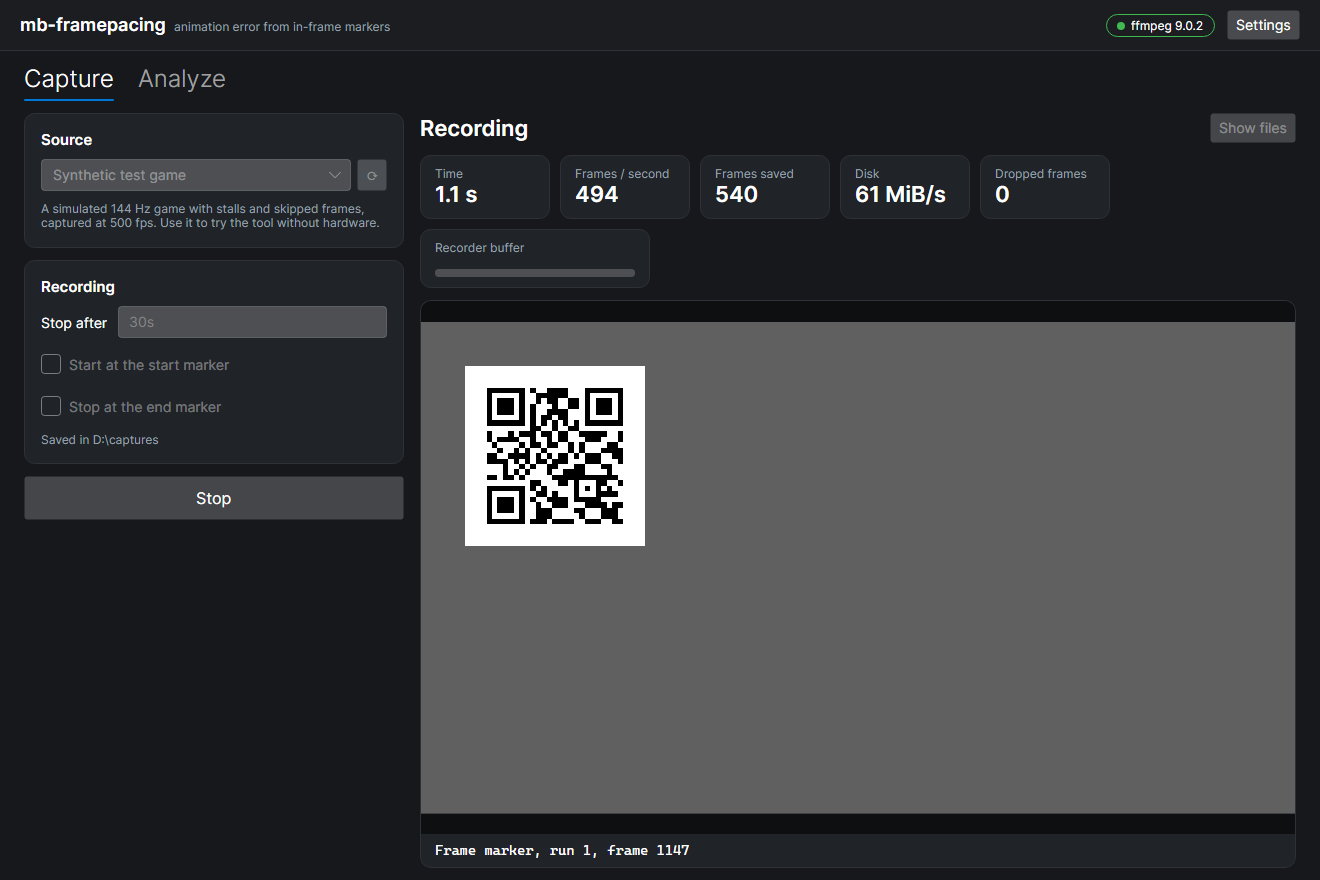
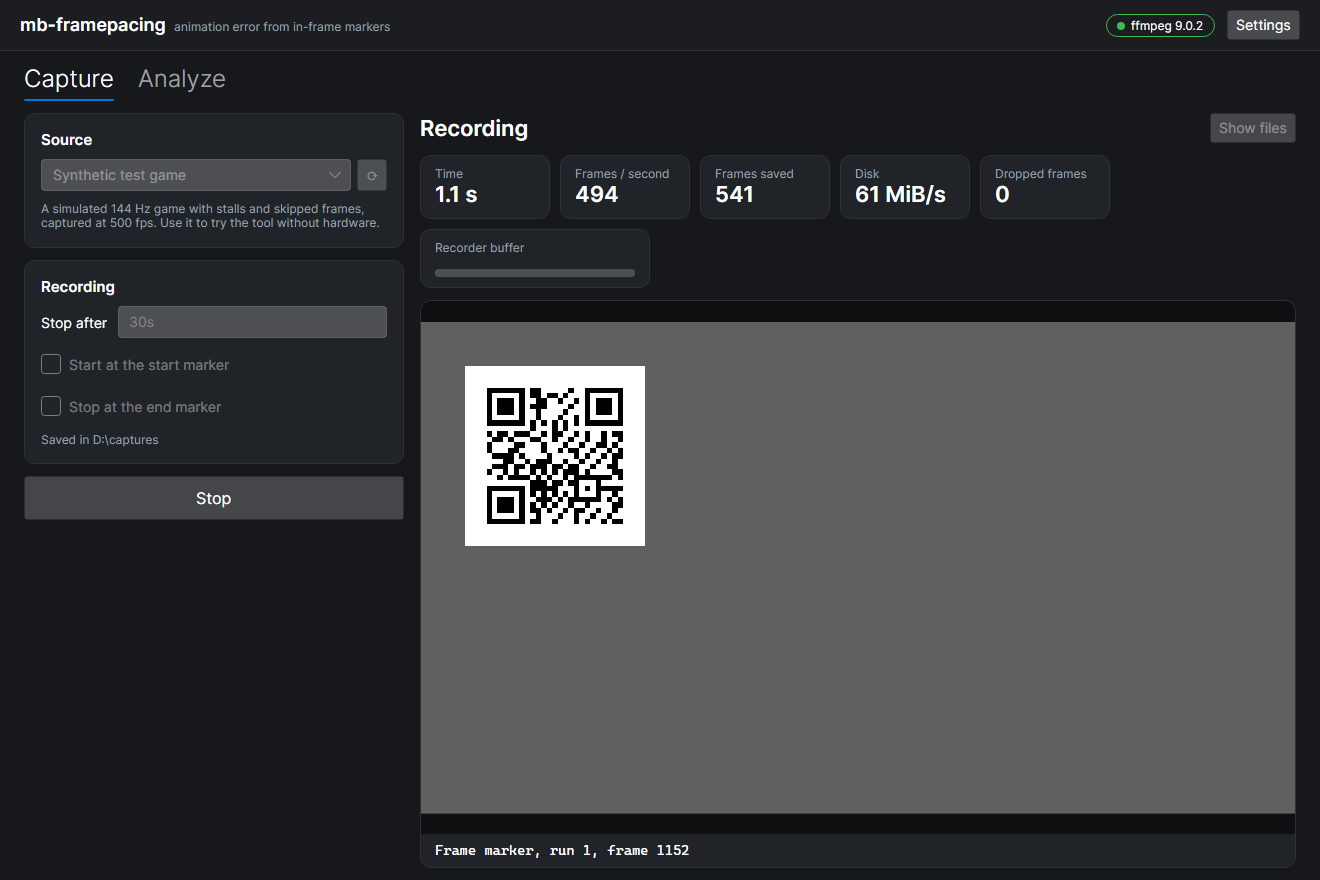
Tools draw markers with the C# marker library
- MB.FramePacing.Marker references MB.FrameMarker: module matrices come from
  MarkerGenerator (one per thread) and the payload wire format is encoded and
  decoded by Marker; ZXing is only used for decoding captures
- The synthetic capture, DocImages and the tests now draw exactly what C++,
  C# and Unity applications draw; doc images regenerated
- DocImages finds the repository root by mb-framepacing.slnx (the GUI build
  copies LICENSE next to it)

Changed region(s): [[0.3727, 0.4295, 0.497, 0.6136], [0.5591, 0.2148, 0.5902, 0.2455], [0.497, 0.9511, 0.528, 0.9818]]

diff --git a/measure/libs/MB.FramePacing.Marker/source/MarkerRenderer.cs b/measure/libs/MB.FramePacing.Marker/source/MarkerRenderer.cs
@@ -2,35 +2,35 @@
 //* File Description
 //* ----------------
 //* C# twin of the C++ marker generator: renders the marker into a GrayImage. Used by the synthetic capture source and the tests; applications
-//* use the C++20 library (marker/cpp/). The symbol parameters and sizing rules are defined in doc/marker-format.md.
+//* use the marker libraries (marker/cpp/, marker/csharp/); this draws with the C# one. The symbol parameters and sizing rules are defined in doc/marker-format.md.
 //*
 //* (c) 2026 Mana Battery
 //****************************************************************************************************************************************************
 
 using System;
-using System.Collections.Generic;
-using System.Text;
-using ZXing;
-using ZXing.QrCode.Internal;
-using QrEncoder = ZXing.QrCode.Internal.Encoder;
+using FM = MB.FrameMarker;
 
 namespace MB.FramePacing.Marker
 {
   public static class MarkerRenderer
   {
     /// <summary>Frame and end markers are fixed to QR version 2 (25x25 modules).</summary>
-    public const int FrameQrVersion = 2;
+    public const int FrameQrVersion = FM.Marker.FrameQrVersion;
 
     /// <summary>Start markers use the smallest version in [FrameQrVersion, MaxQrVersion] that fits the metadata.</summary>
-    public const int MaxQrVersion = 6;
+    public const int MaxQrVersion = FM.Marker.MaxQrVersion;
 
-    public const int FrameQrModuleCount = (4 * FrameQrVersion) + 17;
-    public const int MaxQrModuleCount = (4 * MaxQrVersion) + 17;
-    public const int RecommendedQuietZoneModules = 4;
-    public const int RecommendedInsetPx = 32;
+    public const int FrameQrModuleCount = FM.Marker.FrameQrModuleCount;
+    public const int MaxQrModuleCount = FM.Marker.MaxQrModuleCount;
+    public const int RecommendedQuietZoneModules = FM.Marker.RecommendedQuietZoneModules;
+    public const int RecommendedInsetPx = FM.Marker.RecommendedInsetPx;
 
-    // ISO-8859-1 maps every byte 0-255 to the char with the same value, so the payload bytes survive the string based ZXing API unchanged.
-    private static readonly Encoding g_latin1 = Encoding.Latin1;
+    // The generator keeps scratch buffers and is not thread safe; captures and analyses render on several threads
+    [ThreadStatic]
+    private static FM.MarkerGenerator? g_generator;
+
+    [ThreadStatic]
+    private static FM.ModuleMatrix? g_matrix;
 
     /// <summary>Marker size (symbol + quiet zone) for a frame or end marker.</summary>
     public static int MarkerSizePx(int moduleSizePx, int quietZoneModules = RecommendedQuietZoneModules) =>
@@ -43,31 +43,26 @@ namespace MB.FramePacing.Marker
       MarkerSizePx(moduleSizePx, quietZoneModules, MaxQrModuleCount);
 
     /// <summary>Hard minimum module size in source pixels: 2 stored pixels per module after all scaling.</summary>
-    public static int MinimumModuleSizePx(int sourceHeight, int storedHeight) => ModuleSizeForStoredPx(2, sourceHeight, storedHeight);
+    public static int MinimumModuleSizePx(int sourceHeight, int storedHeight) => FM.Marker.MinimumModuleSizePx(sourceHeight, storedHeight);
 
     /// <summary>Recommended module size in source pixels: 3 stored pixels per module (4 for MJPEG capture).</summary>
     public static int RecommendModuleSizePx(int sourceHeight, int storedHeight, bool mjpeg = false) =>
-      ModuleSizeForStoredPx(mjpeg ? 4 : 3, sourceHeight, storedHeight);
+      FM.Marker.RecommendModuleSizePx(sourceHeight, storedHeight, mjpeg);
 
     /// <summary>Build the QR module matrix for the payload. The metadata is only used by start markers.</summary>
     public static ModuleMatrix GenerateModules(MarkerPayload payload, StartMetadata? metadata = null)
     {
-      var hints = new Dictionary<EncodeHintType, object> { [EncodeHintType.CHARACTER_SET] = "ISO-8859-1", [EncodeHintType.DISABLE_ECI] = true };
-      // Frame and end markers are pinned to one version so the symbol never changes size. Start markers let ZXing pick the smallest version.
-      if (payload.Kind != MarkerKind.SequenceStart)
-        hints[EncodeHintType.QR_VERSION] = FrameQrVersion;
+      // The same encoder applications use (MB.FrameMarker), so the synthetic capture shows exactly what a game draws
+      var generator = g_generator ??= new FM.MarkerGenerator();
+      var matrix = g_matrix ??= new FM.ModuleMatrix();
+      if (!generator.GenerateModules(payload.ToFrameMarker(), (metadata ?? StartMetadata.Empty).ToFrameMarker(), matrix))
+        throw new ArgumentException($"The start name is longer than {MarkerPayload.MaxStartNameBytes} bytes as UTF-8", nameof(metadata));
 
-      var content = g_latin1.GetString(payload.Encode(metadata));
-      var qrCode = QrEncoder.encode(content, ErrorCorrectionLevel.M, hints);
-      if (qrCode.Version.VersionNumber > MaxQrVersion)
-        throw new InvalidOperationException($"Unexpected QR version {qrCode.Version.VersionNumber}");
-
-      var matrix = qrCode.Matrix;
-      var modules = new ModuleMatrix(matrix.Width);
-      for (int y = 0; y < matrix.Height; ++y)
+      var modules = new ModuleMatrix(matrix.Size);
+      for (int y = 0; y < matrix.Size; ++y)
       {
-        for (int x = 0; x < matrix.Width; ++x)
-          modules.Set(x, y, matrix[x, y] == 1);
+        for (int x = 0; x < matrix.Size; ++x)
+          modules.Set(x, y, matrix.IsDark(x, y));
       }
       return modules;
     }
@@ -112,14 +107,6 @@ namespace MB.FramePacing.Marker
             target.FillRect(new PixelRect(symbolLeft + (x * moduleSizePx), symbolTop + (y * moduleSizePx), moduleSizePx, moduleSizePx), 0);
         }
       }
-    }
-
-    private static int ModuleSizeForStoredPx(int storedPxPerModule, int sourceHeight, int storedHeight)
-    {
-      if (sourceHeight <= 0 || storedHeight <= 0)
-        return storedPxPerModule;
-      int size = (int)((((long)storedPxPerModule * sourceHeight) + storedHeight - 1) / storedHeight);
-      return Math.Max(size, storedPxPerModule);
     }
   }
 }

diff --git a/measure/libs/MB.FramePacing.Marker/source/MarkerPayload.cs b/measure/libs/MB.FramePacing.Marker/source/MarkerPayload.cs
@@ -1,14 +1,13 @@
 //****************************************************************************************************************************************************
 //* File Description
 //* ----------------
-//* The frame marker payload. Wire format is defined in doc/marker-format.md and must match marker/cpp/src/Payload.cpp byte for byte.
+//* The frame marker payload. The wire format (doc/marker-format.md) is implemented once in C#, by the marker library (MB.FrameMarker).
 //*
 //* (c) 2026 Mana Battery
 //****************************************************************************************************************************************************
 
 using System;
-using System.Buffers.Binary;
-using System.Text;
+using FM = MB.FrameMarker;
 
 namespace MB.FramePacing.Marker
 {
@@ -27,42 +26,16 @@ namespace MB.FramePacing.Marker
     public const byte Magic1 = (byte)'F';
     public const byte FormatVersion = 1;
 
-    private const int OffsetMagic0 = 0;
-    private const int OffsetMagic1 = 1;
-    private const int OffsetVersion = 2;
-    private const int OffsetKind = 3;
-    private const int OffsetFrameIndex = 4;
-    private const int OffsetAnimationTicks = 12;
-    private const int OffsetRunId = 20;
-    private const int OffsetStartUtcTicks = ByteCount;
-    private const int OffsetStartNameLength = OffsetStartUtcTicks + 8;
-    private const int OffsetStartName = OffsetStartNameLength + 1;
-
-    private static readonly UTF8Encoding g_utf8 = new UTF8Encoding(false, true);
-
     public TimeSpan AnimationTime => TimeSpan.FromTicks(AnimationTicks);
 
     /// <summary>Serialize the payload. Start markers append the metadata (empty if null), other kinds ignore it.</summary>
     public byte[] Encode(StartMetadata? metadata = null)
     {
-      if (Kind != MarkerKind.SequenceStart)
-      {
-        var header = new byte[ByteCount];
-        WriteHeader(header);
-        return header;
-      }
-
-      metadata ??= StartMetadata.Empty;
-      var name = g_utf8.GetBytes(metadata.Name);
-      if (name.Length > MaxStartNameBytes)
-        throw new ArgumentException($"The start name is {name.Length} bytes as UTF-8, the limit is {MaxStartNameBytes}", nameof(metadata));
-
-      var bytes = new byte[StartFixedByteCount + name.Length];
-      WriteHeader(bytes);
-      BinaryPrimitives.WriteInt64LittleEndian(bytes.AsSpan(OffsetStartUtcTicks, 8), metadata.UtcTicks);
-      bytes[OffsetStartNameLength] = (byte)name.Length;
-      name.CopyTo(bytes, OffsetStartName);
-      return bytes;
+      var buffer = new byte[MaxEncodedByteCount];
+      int count = FM.Marker.EncodePayload(ToFrameMarker(), (metadata ?? StartMetadata.Empty).ToFrameMarker(), buffer);
+      if (count == 0)
+        throw new ArgumentException($"The start name is longer than {MaxStartNameBytes} bytes as UTF-8", nameof(metadata));
+      return buffer.AsSpan(0, count).ToArray();
     }
 
     /// <summary>Parse the wire format. Fails on a wrong length, magic, format version, unknown kind or invalid UTF-8 name.</summary>
@@ -71,57 +44,18 @@ namespace MB.FramePacing.Marker
     {
       payload = default;
       metadata = null;
-      if (
-        src.Length < ByteCount
-        || src[OffsetMagic0] != Magic0
-        || src[OffsetMagic1] != Magic1
-        || src[OffsetVersion] != FormatVersion
-        || src[OffsetKind] > (byte)MarkerKind.SequenceEnd
-      )
+      var bytes = src.ToArray();
+      if (!FM.Marker.TryDecodePayload(bytes, 0, bytes.Length, out var decoded, out var start))
         return false;
-
-      var kind = (MarkerKind)src[OffsetKind];
-      if (kind == MarkerKind.SequenceStart)
-      {
-        if (src.Length < StartFixedByteCount)
-          return false;
-        int nameLength = src[OffsetStartNameLength];
-        if (nameLength > MaxStartNameBytes || src.Length != StartFixedByteCount + nameLength)
-          return false;
-        string name;
-        try
-        {
-          name = g_utf8.GetString(src.Slice(OffsetStartName, nameLength));
-        }
-        catch (DecoderFallbackException)
-        {
-          return false;
-        }
-        metadata = new StartMetadata(BinaryPrimitives.ReadInt64LittleEndian(src.Slice(OffsetStartUtcTicks, 8)), name);
-      }
-      else if (src.Length != ByteCount)
-        return false;
-
-      payload = new MarkerPayload(
-        BinaryPrimitives.ReadUInt64LittleEndian(src.Slice(OffsetFrameIndex, 8)),
-        BinaryPrimitives.ReadInt64LittleEndian(src.Slice(OffsetAnimationTicks, 8)),
-        BinaryPrimitives.ReadUInt32LittleEndian(src.Slice(OffsetRunId, 4)),
-        kind
-      );
+      payload = new MarkerPayload(decoded.FrameIndex, decoded.AnimationTicks, decoded.RunId, (MarkerKind)decoded.Kind);
+      if (decoded.Kind == FM.MarkerKind.SequenceStart)
+        metadata = new StartMetadata(start.UtcTicks, start.Name);
       return true;
     }
 
     public static bool TryDecode(ReadOnlySpan<byte> src, out MarkerPayload payload) => TryDecode(src, out payload, out _);
 
-    private void WriteHeader(Span<byte> dst)
-    {
-      dst[OffsetMagic0] = Magic0;
-      dst[OffsetMagic1] = Magic1;
-      dst[OffsetVersion] = FormatVersion;
-      dst[OffsetKind] = (byte)Kind;
-      BinaryPrimitives.WriteUInt64LittleEndian(dst.Slice(OffsetFrameIndex, 8), FrameIndex);
-      BinaryPrimitives.WriteInt64LittleEndian(dst.Slice(OffsetAnimationTicks, 8), AnimationTicks);
-      BinaryPrimitives.WriteUInt32LittleEndian(dst.Slice(OffsetRunId, 4), RunId);
-    }
+    /// <summary>The same payload as the marker library's type.</summary>
+    public FM.Payload ToFrameMarker() => new FM.Payload(FrameIndex, AnimationTicks, RunId, (FM.MarkerKind)Kind);
   }
 }

diff --git a/measure/libs/MB.FramePacing.Marker/source/StartMetadata.cs b/measure/libs/MB.FramePacing.Marker/source/StartMetadata.cs
@@ -7,6 +7,7 @@
 //****************************************************************************************************************************************************
 
 using System;
+using FM = MB.FrameMarker;
 
 namespace MB.FramePacing.Marker
 {
@@ -20,5 +21,8 @@ namespace MB.FramePacing.Marker
     public DateTime? StartTimeUtc => UtcTicks > 0 && UtcTicks <= DateTime.MaxValue.Ticks ? new DateTime(UtcTicks, DateTimeKind.Utc) : null;
 
     public static StartMetadata Create(DateTime startTimeUtc, string name) => new StartMetadata(startTimeUtc.ToUniversalTime().Ticks, name);
+
+    /// <summary>The same metadata as the marker library's type.</summary>
+    public FM.StartMetadata ToFrameMarker() => new FM.StartMetadata(UtcTicks, Name);
   }
 }

diff --git a/measure/tools/DocImages/source/Program.cs b/measure/tools/DocImages/source/Program.cs
@@ -150,7 +150,7 @@ namespace MB.FramePacing.DocImages
     private static string FindRepositoryRoot()
     {
       var directory = new DirectoryInfo(AppContext.BaseDirectory);
-      while (directory != null && !File.Exists(Path.Combine(directory.FullName, "LICENSE")))
+      while (directory != null && !File.Exists(Path.Combine(directory.FullName, "mb-framepacing.slnx")))
         directory = directory.Parent;
       return directory?.FullName ?? throw new DirectoryNotFoundException("Run DocImages from inside the repository or pass an output directory");
     }
